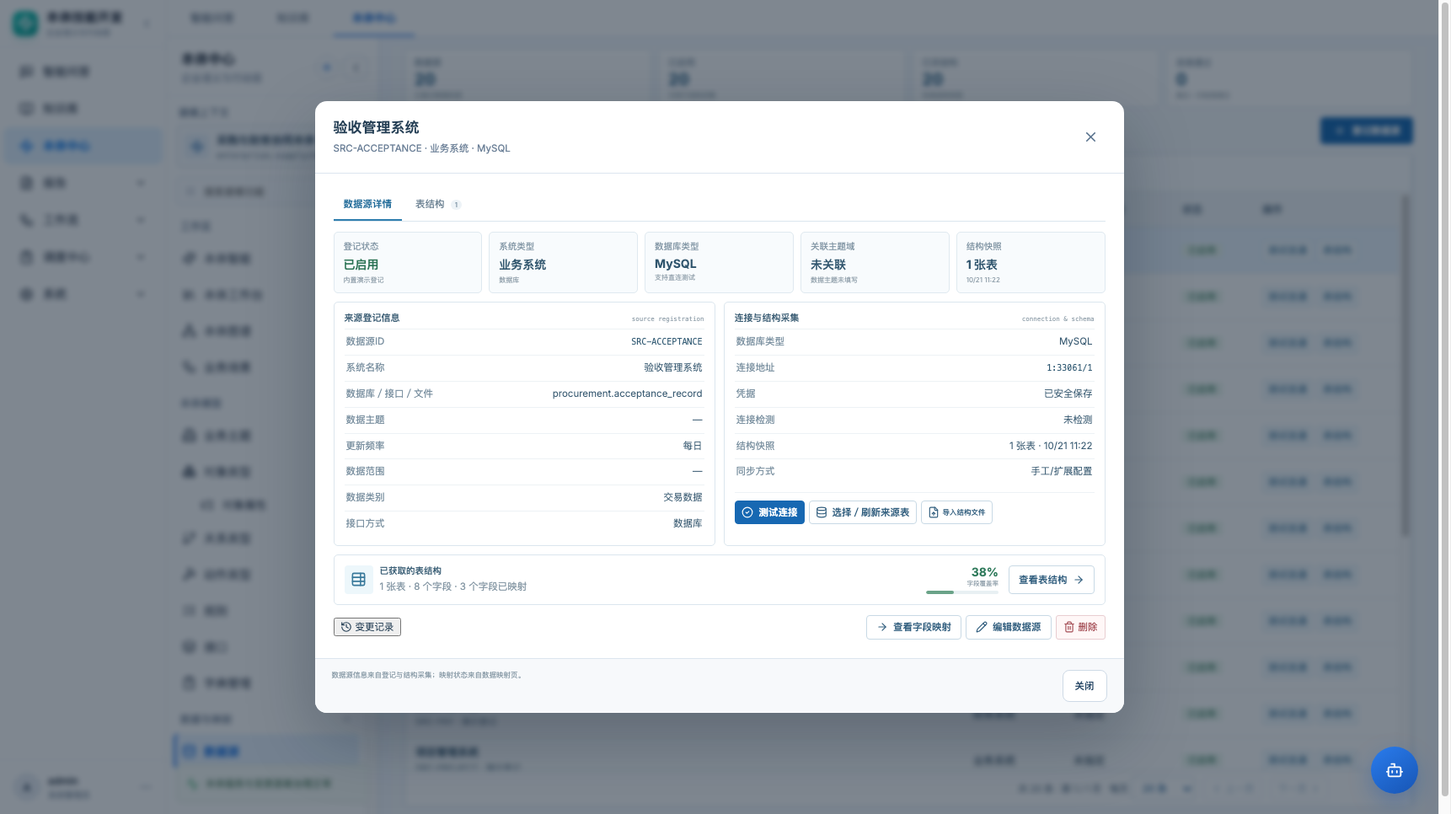
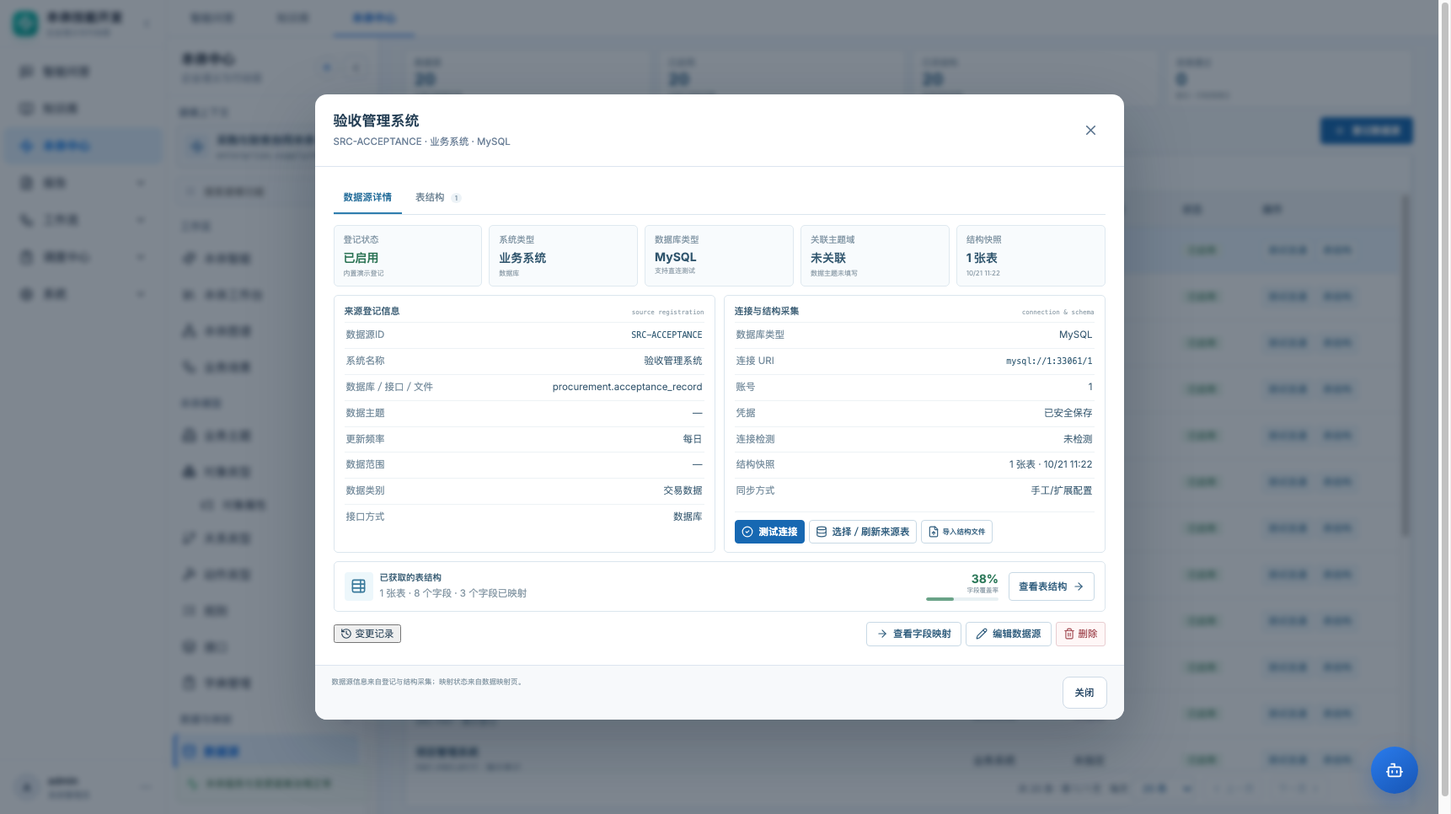
feat: simplify database connection config to db_uri

Changed region(s): [[0.2154, 0.2174, 0.7695, 0.9006], [0.2154, 0.0932, 0.7695, 0.1863], [0.2154, 0.6832, 0.3693, 0.8385]]

diff --git a/frontend/src/pages/DataMappingStudio.jsx b/frontend/src/pages/DataMappingStudio.jsx
@@ -20,6 +20,7 @@ const databaseDrivers = [
   ['sqlserver', 'SQL Server'], ['dameng', '达梦数据库'],
 ];
 const driverLabel = (value) => databaseDrivers.find(([key]) => key === value)?.[1] || value || '未配置';
+const sourceDbUri = (item) => item?.db_uri || (item?.host ? `${item.driver || 'mysql'}://${item.host}:${item.port || 3306}/${item.database || ''}` : '');
 const sourceOptions = {
   system_type: ['业务系统', '实时系统', '资产管理', '资产系统', '监测系统', '财务系统', '主数据系统'],
   data_category: ['交易', '实时', '主数据', '交易数据', '时序数据', '分析数据', '文档数据'],
@@ -29,7 +30,7 @@ const sourceOptions = {
 const emptySource = () => ({ code: '', name: '', category: '', status: 'draft', description: '',
   system_type: '', physical_object: '', data_subject: '', data_scope: '', data_category: '',
   interface_type: '', update_frequency: '', subject_domain_code: '',
-  driver: '', host: '', port: '', database: '', username: '', password: '' });
+  driver: '', db_uri: '', username: '', password: '' });
 const emptyMapping = () => ({ code: '', name: '', status: 'experimental', design_status: '设计中', owner: '', description: '', mapping_type: 'property',
   binding_mode: 'direct', governance_asset_code: '', governance_field: '', governance_relation_fields: ['', ''],
   source_code: '', source_kind: 'table', source_table: '', source_field: '', source_key: '', target_key: '',
@@ -101,6 +102,7 @@ function SchemaDataPreview({ table, preview, busy, error, onRefresh }) {
 }
 
 function SourceDetailContent({ source, tables, totalFields, mappedFields, subjectName, capturedAt, busy, remoteTables, selectedTables, setSelectedTables, onTest, onBrowse, onImport, onViewMappings, onOpenSchema, onCaptureSchema, onEdit, onDelete }) {
+  const sourceUri = sourceDbUri(source);
   const coverage = totalFields ? Math.round((mappedFields / totalFields) * 100) : 0;
   const isMysql = source.driver === 'mysql';
   return <div className="source-detail-content">
@@ -129,7 +131,8 @@ function SourceDetailContent({ source, tables, totalFields, mappedFields, subjec
         <header><h3>连接与结构采集</h3><span>connection & schema</span></header>
         <dl>
           <div><dt>数据库类型</dt><dd>{driverLabel(source.driver)}</dd></div>
-          <div><dt>连接地址</dt><dd>{source.host ? <code>{source.host}:{source.port}/{source.database}</code> : '未配置'}</dd></div>
+          <div><dt>连接 URI</dt><dd title={sourceUri}>{sourceUri ? <code>{sourceUri}</code> : '未配置'}</dd></div>
+          <div><dt>账号</dt><dd>{source.username || '未配置'}</dd></div>
           <div><dt>凭据</dt><dd>{isMysql ? source.credential_configured ? '已安全保存' : '未配置' : '不适用'}</dd></div>
           <div><dt>连接检测</dt><dd>{isMysql ? source.connection_check?.status === 'passed' ? `通过 · ${formatTime(source.connection_check.checked_at)}` : '未检测' : '暂不支持直连'}</dd></div>
           <div><dt>结构快照</dt><dd>{source.schema_snapshot ? `${source.schema_snapshot.table_count} 张表 · ${formatTime(source.schema_snapshot.captured_at)}` : '未获取'}</dd></div>
@@ -449,7 +452,7 @@ export default function DataMappingStudio({ activeId, refreshOntologies, notify,
 
   const visible = useMemo(() => activeTab === 'sources'
     ? (sources || []).filter((item) => (driverFilter === 'all' || (driverFilter === 'none' ? !item.driver : item.driver === driverFilter))
-      && `${item.name} ${item.code} ${item.physical_object || ''} ${item.database || ''} ${item.system_type || ''} ${item.data_subject || ''} ${driverLabel(item.driver)}`.toLowerCase().includes(query.toLowerCase()))
+      && `${item.name} ${item.code} ${item.physical_object || ''} ${item.db_uri || ''} ${item.system_type || ''} ${item.data_subject || ''} ${driverLabel(item.driver)}`.toLowerCase().includes(query.toLowerCase()))
     : mappings.filter((item) => {
       const status = item.design_status || ({ draft: '设计中', experimental: '设计中', active: '已确认', deprecated: '已停用' })[item.status] || '待确认';
       const sourceCode = item.binding_mode === 'governed'
@@ -563,7 +566,7 @@ export default function DataMappingStudio({ activeId, refreshOntologies, notify,
     const legacySubjectCode = subjects.find((subject) => subject.code === item?.data_topic)?.code || '';
     setForm(item ? { ...emptySource(), ...item,
       data_subject: item.data_subject || (legacySubjectCode ? '' : item.data_topic) || '',
-      subject_domain_code: item.subject_domain_code || legacySubjectCode, password: '' } : emptySource());
+      subject_domain_code: item.subject_domain_code || legacySubjectCode, db_uri: sourceDbUri(item), password: '' } : emptySource());
   };
   const startMapping = (item = null) => {
     setEditor({ kind: 'mapping', item });
@@ -603,8 +606,7 @@ export default function DataMappingStudio({ activeId, refreshOntologies, notify,
         data_scope: form.data_scope.trim(), data_category: form.data_category.trim(),
         interface_type: form.interface_type.trim(), subject_domain_code: form.subject_domain_code || '',
         driver: form.driver,
-        host: form.driver === 'mysql' ? form.host : '', port: form.driver === 'mysql' ? Number(form.port) || null : null,
-        database: form.driver === 'mysql' ? form.database : '', username: form.driver === 'mysql' ? form.username : '',
+        db_uri: form.db_uri.trim(), username: form.username.trim(),
         ...(form.driver === 'mysql' && form.password ? { password: form.password } : {}),
         ...(form.driver === 'mysql' && form.connection_check ? { connection_check: form.connection_check } : {}) }
       : { ...preserved, design_status: form.design_status, owner: form.owner.trim(),
@@ -749,7 +751,7 @@ export default function DataMappingStudio({ activeId, refreshOntologies, notify,
       <PaginationBar page={currentPage} pageSize={pageSize} total={visible.length} onPageChange={setPage} onPageSizeChange={(size) => { setPageSize(size); setPage(1); }} /></div>
 
       <aside className="mapping-v2-inspector"><header><strong>{activeTab === 'sources' ? '数据源详情' : '映射详情'}</strong>{selectedDetail && <div><ResourceHistoryLink resourceType={selectedDetail.kind === 'source' ? 'data_source' : 'data_mapping'} resourceId={selectedDetail.item.id} /><button onClick={() => selectedDetail.kind === 'source' ? startSource(selectedDetail.item) : startMapping(selectedDetail.item)}><Pencil size={14} /> 编辑</button><button className="danger-link" onClick={() => remove(selectedDetail.kind, selectedDetail.item)}><Trash2 size={14} /> 删除</button><button className="mapping-detail-close" title="收起详情" aria-label="收起详情" onClick={() => setDetail(null)}><X size={14} /></button></div>}</header>
-      <div key={selectedDetail?.item.id || activeTab} className="mapping-drawer-body">{!selectedDetail ? <EmptyState title="请选择记录" description="从左侧目录选择一条记录查看详情。" /> : selectedDetail.kind === 'source' ? <><h3>{sourceForDetail.name}</h3>{sourceForDetail.source_origin === 'built_in_demo' && sourceForDetail.connection_check?.status !== 'passed' && <p>这是内置采购财务演示登记，不代表已接入真实系统。</p>}<h4>来源登记信息</h4><dl><div><dt>数据源ID</dt><dd>{sourceForDetail.code}</dd></div><div><dt>登记状态</dt><dd>{statusLabel(sourceForDetail.status)}</dd></div><div><dt>系统类型</dt><dd>{sourceForDetail.system_type || '—'}</dd></div><div><dt>数据库/接口/文件</dt><dd>{sourceForDetail.physical_object || '—'}</dd></div><div><dt>数据主题</dt><dd>{sourceForDetail.data_subject || '—'}</dd></div><div><dt>更新频率</dt><dd>{sourceForDetail.update_frequency || '—'}</dd></div><div><dt>数据范围</dt><dd>{sourceForDetail.data_scope || '—'}</dd></div><div><dt>数据类别</dt><dd>{sourceForDetail.data_category || '—'}</dd></div><div><dt>接口方式</dt><dd>{sourceForDetail.interface_type || '—'}</dd></div></dl><h4>本体分类关联（扩展配置）</h4><dl><div><dt>关联主题域</dt><dd>{subjects.find((item) => item.code === sourceForDetail.subject_domain_code)?.name || sourceForDetail.subject_domain_code || '未关联'}</dd></div></dl><h4>连接与结构采集（扩展配置）</h4><dl><div><dt>数据库类型</dt><dd>{driverLabel(sourceForDetail.driver)}</dd></div><div><dt>连接地址</dt><dd>{sourceForDetail.host ? `${sourceForDetail.host}:${sourceForDetail.port}/${sourceForDetail.database}` : '未配置'}</dd></div><div><dt>凭据</dt><dd>{sourceForDetail.driver === 'mysql' ? sourceForDetail.credential_configured ? '已安全保存' : '未配置' : '不适用'}</dd></div><div><dt>连接检测</dt><dd>{sourceForDetail.driver === 'mysql' ? sourceForDetail.connection_check?.status === 'passed' ? `通过 · ${formatTime(sourceForDetail.connection_check.checked_at)}` : '未检测' : '暂不支持直连'}</dd></div><div><dt>结构快照</dt><dd>{sourceForDetail.schema_snapshot ? `${sourceForDetail.schema_snapshot.table_count} 张表 · ${formatTime(sourceForDetail.schema_snapshot.captured_at)}` : '未获取'}</dd></div></dl>
+      <div key={selectedDetail?.item.id || activeTab} className="mapping-drawer-body">{!selectedDetail ? <EmptyState title="请选择记录" description="从左侧目录选择一条记录查看详情。" /> : selectedDetail.kind === 'source' ? <><h3>{sourceForDetail.name}</h3>{sourceForDetail.source_origin === 'built_in_demo' && sourceForDetail.connection_check?.status !== 'passed' && <p>这是内置采购财务演示登记，不代表已接入真实系统。</p>}<h4>来源登记信息</h4><dl><div><dt>数据源ID</dt><dd>{sourceForDetail.code}</dd></div><div><dt>登记状态</dt><dd>{statusLabel(sourceForDetail.status)}</dd></div><div><dt>系统类型</dt><dd>{sourceForDetail.system_type || '—'}</dd></div><div><dt>数据库/接口/文件</dt><dd>{sourceForDetail.physical_object || '—'}</dd></div><div><dt>数据主题</dt><dd>{sourceForDetail.data_subject || '—'}</dd></div><div><dt>更新频率</dt><dd>{sourceForDetail.update_frequency || '—'}</dd></div><div><dt>数据范围</dt><dd>{sourceForDetail.data_scope || '—'}</dd></div><div><dt>数据类别</dt><dd>{sourceForDetail.data_category || '—'}</dd></div><div><dt>接口方式</dt><dd>{sourceForDetail.interface_type || '—'}</dd></div></dl><h4>本体分类关联（扩展配置）</h4><dl><div><dt>关联主题域</dt><dd>{subjects.find((item) => item.code === sourceForDetail.subject_domain_code)?.name || sourceForDetail.subject_domain_code || '未关联'}</dd></div></dl><h4>连接与结构采集（扩展配置）</h4><dl><div><dt>数据库类型</dt><dd>{driverLabel(sourceForDetail.driver)}</dd></div><div><dt>连接 URI</dt><dd>{sourceDbUri(sourceForDetail) || '未配置'}</dd></div><div><dt>账号</dt><dd>{sourceForDetail.username || '未配置'}</dd></div><div><dt>凭据</dt><dd>{sourceForDetail.driver === 'mysql' ? sourceForDetail.credential_configured ? '已安全保存' : '未配置' : '不适用'}</dd></div><div><dt>连接检测</dt><dd>{sourceForDetail.driver === 'mysql' ? sourceForDetail.connection_check?.status === 'passed' ? `通过 · ${formatTime(sourceForDetail.connection_check.checked_at)}` : '未检测' : '暂不支持直连'}</dd></div><div><dt>结构快照</dt><dd>{sourceForDetail.schema_snapshot ? `${sourceForDetail.schema_snapshot.table_count} 张表 · ${formatTime(sourceForDetail.schema_snapshot.captured_at)}` : '未获取'}</dd></div></dl>
         <div className="mapping-drawer-actions">{sourceForDetail.driver === 'mysql' && <button disabled={Boolean(busy)} onClick={() => sourceAction('test-connection', sourceForDetail)}><CheckCircle2 size={15} /> 测试连接</button>}{sourceForDetail.driver === 'mysql' && <button disabled={Boolean(busy) || sourceForDetail.connection_check?.status !== 'passed'} onClick={() => browseTables(sourceForDetail)}><Database size={15} /> 选择/刷新来源表</button>}<label className="mapping-upload"><FileUp size={15} /> 导入结构文件<input type="file" accept={sourceForDetail.driver && sourceForDetail.driver !== "mysql" ? ".csv,.json" : ".csv,.json,.sql"} hidden onChange={(event) => { importDictionary(event.target.files?.[0], sourceForDetail); event.target.value = ''; }} /></label><button onClick={() => navigate(`/ontology/data/mappings?source=${encodeURIComponent(sourceForDetail.code)}`)}><ArrowRight size={15} /> 查看字段映射</button></div>
         {remoteTables.length > 0 && <section className="mapping-remote-tables"><h4>选择要采集结构的物理表</h4><p>这里只采集选中表的结构，不读取业务行。</p><div>{remoteTables.map((table) => <label key={table.name}><input type="checkbox" checked={selectedTables.includes(table.name)} onChange={() => setSelectedTables((old) => old.includes(table.name) ? old.filter((name) => name !== table.name) : [...old, table.name])} /><span>{table.name}</span><small>{table.comment}</small></label>)}</div><button disabled={!selectedTables.length || Boolean(busy)} onClick={() => sourceAction('capture-schema', sourceForDetail, { table_names: selectedTables })}>获取所选 {selectedTables.length} 张表的结构</button></section>}
         <section className="mapping-schema"><div className="mapping-schema-head"><h4>已获取的表结构</h4>{detailTables.length > 0 && <button type="button" className="mapping-schema-expand" onClick={openSchema}>展开完整结构 <ChevronRight size={14} /></button>}</div>{schemaCapturedAt && <p>结构快照：{formatTime(schemaCapturedAt)}。这里只展示字段元数据，不读取业务记录。</p>}{detailTables.length ? <button type="button" className="mapping-schema-summary" onClick={openSchema}><span className="mapping-schema-summary-icon"><TableProperties size={18} /></span><span><strong>{detailTables.length} 张表 · {schemaFieldCount} 个字段</strong><small>{schemaMappedFieldCount} 个字段已映射 · 覆盖率 {schemaCoverage}%</small></span><span className="mapping-schema-coverage"><i><b style={{ width: `${schemaCoverage}%` }} /></i><em>{schemaCoverage}%</em></span><ChevronRight size={15} /></button> : <p>尚无结构快照。MySQL 可直连采集；其他类型请导入含表名、字段名、数据类型的 CSV、JSON 或 SQL 数据字典。</p>}</section></>
@@ -820,16 +822,12 @@ export default function DataMappingStudio({ activeId, refreshOntologies, notify,
         <DictionaryField kind="data_category" label="数据类别" required={!editor.item} value={form.data_category || ''} valueMode="name" onChange={(value) => setForm({ ...form, data_category: value })} />
         <DictionaryField kind="interface_type" label="接口方式" required={!editor.item} value={form.interface_type || ''} valueMode="name" onChange={(value) => setForm({ ...form, interface_type: value })} />
       </div></div>
-        <div className="form-section"><h3>数据库类型与结构获取</h3><p className="form-hint">数据库类型属于连接配置，不改变上面的登记字段。目前仅 MySQL 支持直连获取表结构；其余类型可登记并导入 CSV、JSON 或 SQL 数据字典。</p><div className="form-grid two">
-          <label><span>数据库类型</span><select value={form.driver || ''} onChange={(event) => setForm({ ...form, driver: event.target.value, port: event.target.value === 'mysql' ? form.port || 3306 : '' })}><option value="">暂不指定</option>{databaseDrivers.map(([key, label]) => <option key={key} value={key}>{label}</option>)}{form.driver && !databaseDrivers.some(([key]) => key === form.driver) && <option value={form.driver}>{form.driver}（已有值）</option>}</select></label>
+        <div className="form-section"><h3>连接配置</h3><p className="form-hint">只保留驱动类型、连接 URI、账号、密码四项。端口和数据库名写在 URI 中；目前仅 MySQL 支持直连测试与结构采集，其余驱动可登记后导入结构字典。</p><div className="form-grid two">
+          <label><span>驱动类型</span><select value={form.driver || ''} onChange={(event) => setForm({ ...form, driver: event.target.value })}><option value="">暂不指定</option>{databaseDrivers.map(([key, label]) => <option key={key} value={key}>{label}</option>)}{form.driver && !databaseDrivers.some(([key]) => key === form.driver) && <option value={form.driver}>{form.driver}（已有值）</option>}</select></label>
+          <label><span>连接 URI</span><input className="mono" required={form.driver === 'mysql'} value={form.db_uri || ''} onChange={(event) => setForm({ ...form, db_uri: event.target.value })} placeholder="mysql://db.example.com:3306/procurement" spellCheck="false" /><small>格式 mysql://host:port/database；账号密码使用下方独立字段。</small></label>
+          <label><span>账号</span><input required={form.driver === 'mysql'} value={form.username || ''} onChange={(event) => setForm({ ...form, username: event.target.value })} placeholder="数据库账号" autoComplete="username" /></label>
+          <label><span>密码</span><input type="password" autoComplete="new-password" required={!editor.item || !form.credential_configured} value={form.password || ''} placeholder={form.credential_configured ? '已配置；留空表示不修改' : '输入连接密码'} onChange={(event) => setForm({ ...form, password: event.target.value })} /><small>密码加密保存，不进入本体元数据或导出文件。</small></label>
           {form.driver && form.driver !== 'mysql' && <p className="mapping-driver-note">{driverLabel(form.driver)} 暂不支持直连测试与采集。保存登记信息后，请在详情中导入 CSV 或 JSON 结构文件。</p>}
-          {form.driver === 'mysql' && <>
-            <label><span>主机地址</span><input required value={form.host || ''} onChange={(event) => setForm({ ...form, host: event.target.value })} /></label>
-            <label><span>端口</span><input type="number" min="1" max="65535" required value={form.port ?? ''} onChange={(event) => setForm({ ...form, port: event.target.value })} /></label>
-            <label><span>数据库名称</span><input required value={form.database || ''} onChange={(event) => setForm({ ...form, database: event.target.value })} /></label>
-            <label><span>用户名</span><input required value={form.username || ''} onChange={(event) => setForm({ ...form, username: event.target.value })} /></label>
-            <label><span>密码</span><input type="password" autoComplete="new-password" required={!editor.item || !form.credential_configured} value={form.password || ''} placeholder={form.credential_configured ? '已配置；留空表示不修改' : '输入连接密码'} onChange={(event) => setForm({ ...form, password: event.target.value })} /><small>密码加密保存，不进入本体元数据或导出文件。</small></label>
-          </>}
         </div></div></>
         : <><section className="form-section"><h3>物理来源</h3><p className="form-hint">直接选择来源系统、物理表和字段；这是图谱左侧连线的起点。<button type="button" className="mapping-inline-action" onClick={() => { setEditor(null); navigate('/ontology/data/sources'); }}>先登记物理来源</button></p><div className="form-grid two">
           <MappingSourceFields form={form} setForm={setForm} sources={sources || []} tables={tables} objects={objects} relation={links.find((item) => item.name === form.target_relation)} />

diff --git a/backend/source_connections.py b/backend/source_connections.py
@@ -15,6 +15,7 @@ from datetime import date, datetime
 from decimal import Decimal
 from pathlib import Path
 from typing import Any, Dict, Optional
+from urllib.parse import urlsplit
 
 import repository as repo
 
@@ -76,6 +77,55 @@ def has_password(source_id: str) -> bool:
     return bool(row)
 
 
+
+def parse_db_uri(value: str) -> Dict[str, Any]:
+    """Parse a db_uri without accepting embedded credentials.
+
+    Supported forms: mysql://host:3306/database, host:3306/database.
+    Credentials stay in the separate account/password fields.
+    """
+    raw = str(value or "").strip()
+    if not raw:
+        raise repo.ValidationError("请填写连接 URI")
+    if raw.startswith("jdbc:"):
+        raw = raw[5:]
+    scheme = ""
+    if "://" in raw:
+        try:
+            parsed = urlsplit(raw)
+            port = parsed.port
+        except ValueError as exc:
+            raise repo.ValidationError("连接 URI 格式无效，请检查端口") from exc
+        if parsed.username or parsed.password:
+            raise repo.ValidationError("账号和密码请使用独立字段，不要写入连接 URI")
+        scheme = parsed.scheme.lower().split("+", 1)[0]
+        host = parsed.hostname or ""
+        database = parsed.path.lstrip("/").split("?")[0]
+    else:
+        match = re.fullmatch(r"([^/:\s]+)(?::(\d+))?/([^/\s?]+)", raw)
+        if not match:
+            raise repo.ValidationError("连接 URI 格式应为 host:port/database 或 mysql://host:port/database")
+        host, port_text, database = match.group(1), match.group(2), match.group(3)
+        port = int(port_text) if port_text else None
+    if not host or not database:
+        raise repo.ValidationError("连接 URI 必须包含主机和数据库名")
+    if scheme and scheme not in {"mysql", "postgresql", "oracle", "sqlserver", "dameng"}:
+        raise repo.ValidationError("连接 URI 的驱动协议无效")
+    if port is None:
+        port = 3306 if (scheme or "mysql") == "mysql" else None
+    if port is not None and not 1 <= int(port) <= 65535:
+        raise repo.ValidationError("连接 URI 的端口须为 1–65535")
+    return {"scheme": scheme, "host": host, "port": port, "database": database}
+
+
+def legacy_db_uri(source: Dict[str, Any]) -> str:
+    if source.get("db_uri"):
+        return str(source["db_uri"])
+    if source.get("host") and source.get("database"):
+        return f"{source.get('host')}:{source.get('port') or 3306}/{source.get('database')}"
+    return ""
+
+
 def _source(ontology_id: str, source_id: str) -> Dict[str, Any]:
     conn = repo.get_conn()
     row = conn.execute("SELECT * FROM enterprise_data_sources WHERE id=? AND ontology_id=?", (source_id, ontology_id)).fetchone()
@@ -84,14 +134,23 @@ def _source(ontology_id: str, source_id: str) -> Dict[str, Any]:
         raise repo.NotFoundError("数据源不存在")
     data = dict(row)
     data.update(json.loads(data.pop("payload") or "{}"))
+    data["db_uri"] = legacy_db_uri(data)
     return data
 
 
 def _connect(source: Dict[str, Any]):
     if source.get("driver") != "mysql":
         raise repo.ValidationError("当前仅支持 MySQL 直连结构采集；其他来源可登记并导入数据字典")
-    required = {"host": "主机地址", "port": "端口", "database": "数据库名称", "username": "用户名"}
-    missing = [label for key, label in required.items() if not source.get(key)]
+    try:
+        parsed = parse_db_uri(source.get("db_uri") or legacy_db_uri(source))
+    except repo.ValidationError as exc:
+        raise repo.ValidationError(str(exc)) from exc
+    uri_scheme = str(parsed.get("scheme") or "")
+    if uri_scheme and source.get("driver") and uri_scheme != source.get("driver"):
+        raise repo.ValidationError("连接 URI 的驱动协议与驱动类型不一致")
+    required = {"host": "主机地址", "port": "端口", "database": "数据库名称", "username": "账号"}
+    normalized = {"host": parsed["host"], "port": parsed["port"], "database": parsed["database"], "username": source.get("username")}
+    missing = [label for key, label in required.items() if not normalized.get(key)]
     if missing:
         raise repo.ValidationError("连接配置缺少：" + "、".join(missing))
     if not has_password(source["id"]):
@@ -106,8 +165,8 @@ def _connect(source: Dict[str, Any]):
     password = _cipher().decrypt(row["password_token"].encode()).decode()
     try:
         return pymysql.connect(
-            host=source["host"], port=int(source["port"]), user=source["username"],
-            password=password, database=source["database"],
+            host=normalized["host"], port=int(normalized["port"]), user=normalized["username"],
+            password=password, database=normalized["database"],
             connect_timeout=5, read_timeout=8, write_timeout=8,
             charset="utf8mb4", cursorclass=pymysql.cursors.DictCursor,
         )

diff --git a/backend/enterprise.py b/backend/enterprise.py
@@ -506,15 +506,14 @@ def _validate_data_source(payload: Dict[str, Any]) -> None:
     if payload.get("driver") and payload["driver"] not in supported_drivers:
         raise repo.ValidationError("数据库类型只支持 MySQL、PostgreSQL、Oracle、SQL Server、达梦数据库的登记")
     if payload.get("driver") == "mysql":
-        required = {"host": "主机地址", "port": "端口", "database": "数据库名称", "username": "用户名"}
-        missing = [label for key, label in required.items() if not payload.get(key)]
-        if missing:
-            raise repo.ValidationError("MySQL 连接配置缺少：" + "、".join(missing))
+        if not payload.get("db_uri") and not (payload.get("host") and payload.get("database")):
+            raise repo.ValidationError("MySQL 连接配置缺少连接 URI")
+        if not payload.get("username"):
+            raise repo.ValidationError("MySQL 连接配置缺少账号")
         try:
-            if not 1 <= int(payload["port"]) <= 65535:
-                raise ValueError()
-        except (TypeError, ValueError) as exc:
-            raise repo.ValidationError("端口须为 1–65535 的整数") from exc
+            source_connections.parse_db_uri(payload.get("db_uri") or f"{payload.get('host')}:{payload.get('port') or 3306}/{payload.get('database')}")
+        except repo.ValidationError:
+            raise
 
 
 def _validate_governance_asset(ontology_id: str, payload: Dict[str, Any]) -> None:
@@ -711,7 +710,7 @@ def save_resource(ontology_id: str, kind: str, data: EnterpriseResourceBase, res
         # A changed endpoint or identity invalidates any previous connection check.
         if resource_id:
             old = get_resource(ontology_id, kind, resource_id)
-            identity = ("driver", "host", "port", "database", "username")
+            identity = ("driver", "db_uri", "username")
             if source_password or any(str(old.get(key) or "") != str(payload.get(key) or "") for key in identity):
                 payload.pop("connection_check", None)
         else:

diff --git a/docs/prd/09-PRD-数据源数据映射与映射图谱.md b/docs/prd/09-PRD-数据源数据映射与映射图谱.md
@@ -104,7 +104,7 @@
 - 来源登记信息。
 - 本体分类关联。
 - 连接与结构采集：
-  - 数据库类型、连接地址、凭据状态、连接检测、结构快照；
+  - 驱动类型、连接 URI、账号、凭据状态、连接检测、结构快照；
   - 测试连接；
   - 选择/刷新来源表；
   - 导入 CSV/JSON/SQL 数据字典。
@@ -112,6 +112,28 @@
 - 表结构页签使用 90vw × 90vh 大弹窗；详情页签使用紧凑 960px 弹窗，避免详情内容留白。
 - 不再保留右侧 350px 数据源详情栏。
 - 底部操作：**查看字段映射** → 跳转数据映射页并按当前数据源过滤。
+
+### 4.3.1 连接配置最小集
+
+![连接配置最小集](../proto-shots/46-数据源-连接配置最小集.png)
+
+数据源的连接配置只保留四个字段：
+
+| 字段 | 含义 | 说明 |
+|---|---|---|
+| 驱动类型 | 数据库驱动 | MySQL / PostgreSQL / Oracle / SQL Server / 达梦 |
+| 连接 URI | 物理连接目标 | 格式 `mysql://host:port/database`，不包含账号密码 |
+| 账号 | 数据库账号 | 与 URI 分开保存 |
+| 密码 | 数据库密码 | 加密保存，不在详情、列表、日志或导出中回显 |
+
+规则：
+
+- 不再单独维护主机、端口、数据库名三个字段；这三项由连接 URI 解析得到。
+- 账号、密码不得写入 URI；URI 中出现 userinfo 时保存失败并提示使用独立字段。
+- 端口、数据库名缺失或端口非法时，在保存/测试连接时给出明确校验。
+- 旧数据源保留兼容：已有 host/port/database 的历史记录在编辑时自动拼出连接 URI，保存后以 URI 为准。
+- 密码只在新建或重置时写入；编辑时留空表示不修改。
+- 连接检测、结构快照、数据预览都使用解析后的同一连接身份；驱动/URI/账号变化后，旧的连接检测状态失效。
 
 ### 4.4 表结构浏览器（大弹窗）
 
@@ -430,6 +452,8 @@ GET  /api/ontologies/{id}/releases/{releaseId}/snapshot
 | M33 | 当前本体未映射时明确标注，不把其他本体映射误显示为当前映射 |
 | M34 | 数据预览有独立的数据读取权限校验，结构权限不能替代 |
 | M35 | 共享数据源模型迁移前列出全局源、授权关系、快照归属和映射隔离边界 |
+| M36 | 连接配置只展示驱动类型、连接 URI、账号、密码四个字段 |
+| M37 | 连接 URI 不包含账号密码；旧 host/port/database 自动兼容为 URI |
 
 ## 10. 后续阶段
 
